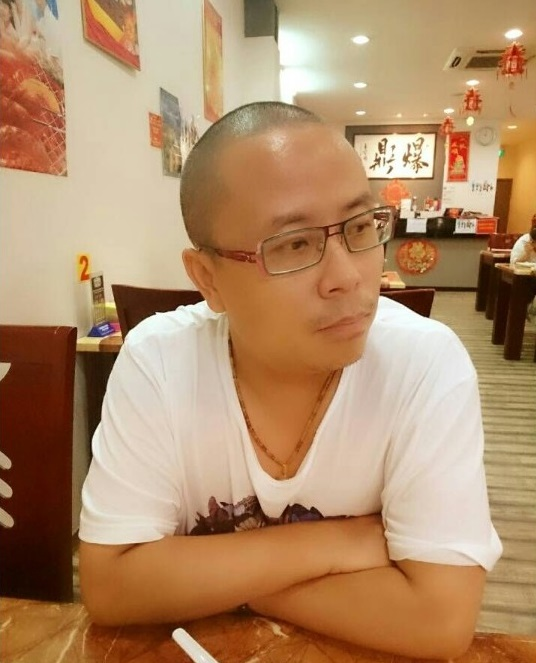
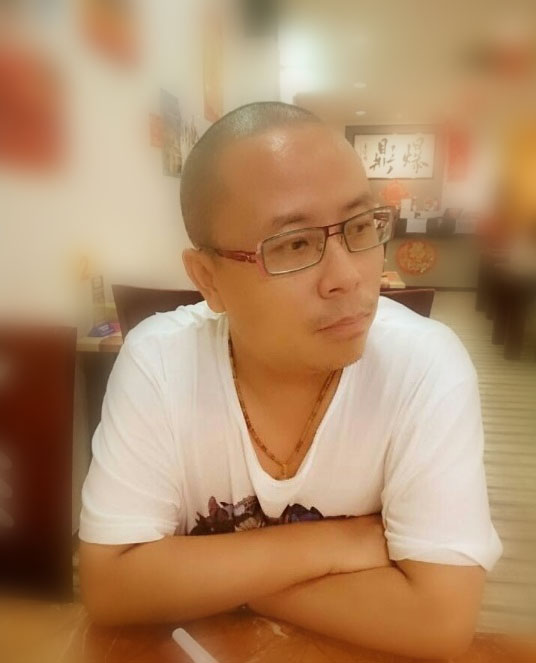
edit team photos

diff --git a/src/components/home/featured.js b/src/components/home/featured.js
@@ -85,7 +85,16 @@ const data = [
     img:
       "https://res.cloudinary.com/gtcmain/image/upload/v1554629714/speakers/Alvin.jpg",
     description:
-      "<p>He is the current Founding President of Institute of Blockchain™ (IBS), a not-for-profit blockchain school focusing on blockchain & cryptocurrency education, certification and research. He is the first WSQ ACTA Master Trainer for Blockchain and has trained more than 1000 participants in blockchain & cryptocurrency at Singapore and Hong Kong. He also oversees IBS's blockchain community of more than 600 individuals across the globe.</p>"
+      "<p>Alvin is the current Founding President of Institute of Blockchain™ (IBS), a not-for-profit blockchain school focusing on blockchain & cryptocurrency education, certification and research. He is the first WSQ ACTA Master Trainer for Blockchain and has trained more than 1000 participants in blockchain & cryptocurrency at Singapore and Hong Kong. He also oversees IBS's blockchain community of more than 600 individuals across the globe.</p>"
+  },
+  {
+    name: "Gustavor Liu",
+    designation: "Co-founder",
+    organisation: "The Hungry Lab",
+    img:
+      "https://res.cloudinary.com/gtcmain/image/upload/v1555858347/speakers/gustavo.jpg",
+    description:
+      "<p>Gustavo is the co-founder of The Hungry Lab and founder of EAT launchpad and a podcast host. He is a private banker with 12 years in wealth management and currently seats on the advisory board of various companies. He speaks 5 languages and has a MBA and degress in Computer Science and Mathematics. He has worked with notable brands like HSBC, UOB and Citibank.</p>"
   },
   {
     name: "Kenneth Hu",
@@ -101,7 +110,7 @@ const data = [
     designation: "Director of Technology",
     organisation: "Institute of Blockchain Singapore (IBS)",
     img:
-      "https://res.cloudinary.com/gtcmain/image/upload/v1554629714/speakers/Laurence-Zhang.jpg",
+      "https://res.cloudinary.com/gtcmain/image/upload/v1555857617/speakers/Laurence-Zhang.jpg",
     description:
       "<p>Laurence is an accomplished software consultant with over 20 years of full-stack software development. Besides that he is also professionally certified for Blockchain for Business under the Linux Foundation, ACTA, and a Google Cloud & Microsoft Azure consultant. Besides actively contributing to Institute of Blockchain, he is also the ambassador of Kleros.</p>"
   },

diff --git a/src/theme/boxes.js b/src/theme/boxes.js
@@ -1,16 +1,21 @@
-import styled from 'styled-components'
-import { media } from './globalStyle'
+import styled from "styled-components";
+import { media } from "./globalStyle";
 
 const Panel = styled.div`
   padding: 40px 20px;
-  @media(min-width: 568px) {
+  @media (min-width: 568px) {
     padding: 80px 40px;
   }
 
   .row {
     margin: 0;
   }
-`
+
+  .phoneMT {
+    margin-top: 80px;
+    ${media.tablet`margin-top: 0px;`}
+  }
+`;
 
 const Box = styled.div`
   padding: 30px 10px;
@@ -24,22 +29,30 @@ const Box = styled.div`
   }
 
   i {
-    color: ${props => props.theme.mute}
+    color: ${props => props.theme.mute};
   }
 
   ul li:not(:last-child) {
     padding-bottom: 20px;
   }
-`
+`;
 
 const GradientBox = styled(Box)`
-  border-image: linear-gradient(to bottom right, ${props => props.theme.gradientStopOne} 0%, ${props => props.theme.gradientStopTwo} 100%);
+  border-image: linear-gradient(
+    to bottom right,
+    ${props => props.theme.gradientStopOne} 0%,
+    ${props => props.theme.gradientStopTwo} 100%
+  );
   border-image-slice: 1;
-`
+`;
 
 const GradientBg = styled.div`
-  background: linear-gradient(to top, ${props => props.theme.body}, rgba(255, 255, 255, 0) )
-`
+  background: linear-gradient(
+    to top,
+    ${props => props.theme.body},
+    rgba(255, 255, 255, 0)
+  );
+`;
 
 const BouncingBox = styled.div`
   height: 30px;
@@ -49,14 +62,14 @@ const BouncingBox = styled.div`
   animation: rotating 1.2s linear ${props => props.delay} infinite;
 
   @keyframes rotating {
-  50% {
-    transform: scale(1) rotate(90deg);
+    50% {
+      transform: scale(1) rotate(90deg);
+    }
+    100% {
+      transform: scale(0.8) rotate(90deg);
+    }
   }
-  100% {
-    transform: scale(0.8) rotate(90deg);
-  }
-}
-`
+`;
 
 const OddShape = styled.div`
   min-height: 115px;
@@ -70,7 +83,7 @@ const OddShape = styled.div`
   ${media.tablet`padding: 20px 40px 10px;`}
 
   &:before {
-    content: '';
+    content: "";
     position: absolute;
     top: -15px;
     left: 0;
@@ -88,7 +101,7 @@ const OddShape = styled.div`
   }
 
   &:after {
-    content: '';
+    content: "";
     position: absolute;
     bottom: -42px;
     left: 0;
@@ -112,6 +125,6 @@ const OddShape = styled.div`
       padding-bottom: 0;
     }
   }
-`
+`;
 
-export { Box, Panel, GradientBox, GradientBg, BouncingBox, OddShape }
+export { Box, Panel, GradientBox, GradientBg, BouncingBox, OddShape };

diff --git a/src/components/home/about.js b/src/components/home/about.js
@@ -12,7 +12,7 @@ const highlights = [
 
 const About = props => (
   <Panel className="bg-white" id="about">
-    <div className="px-4 pb-5">
+    <div className="px-0 px-sm-4 pb-5">
       <h2 className="text-center">About</h2>
       <p className="pb-0 text-center">
         Blockchain is an emerging technology that is increasingly incorporated
@@ -23,22 +23,24 @@ const About = props => (
       </p>
 
       <div className="row align-items-center container__cstm--y">
-        <div className="col-12 col-sm-7 pl-sm-0 order-1 order-sm-0">
-          <h2>Mark your dates</h2>
-          <h3 className="text-body">June</h3>
-          <ul>
-            <li>Preliminary hackathon: Prepare your slide decks</li>
-          </ul>
-          <h3 className="text-body">14-16 June</h3>
-          <ul>
-            <li>Final hackathon: Create your prototype and pitch</li>
-          </ul>
-          <h3 className="text-body">16 June</h3>
-          <ul>
-            <li>Hackathon judging day</li>
-            <li>Panel discussion</li>
-            <li>Career fair</li>
-          </ul>
+        <div className="col-12 col-sm-7 pl-sm-0 order-1 order-sm-0 px-0">
+          <div className="phoneMT">
+            <h2>Mark your dates</h2>
+            <h3 className="text-body">June</h3>
+            <ul>
+              <li>Preliminary hackathon: Prepare your slide decks</li>
+            </ul>
+            <h3 className="text-body">14-16 June</h3>
+            <ul>
+              <li>Final hackathon: Create your prototype and pitch</li>
+            </ul>
+            <h3 className="text-body">16 June</h3>
+            <ul>
+              <li>Hackathon judging day</li>
+              <li>Panel discussion</li>
+              <li>Career fair</li>
+            </ul>
+          </div>
 
           <div className="pt-5 pr-sm-5">
             <GradientBox>

diff --git a/src/pages/team.js b/src/pages/team.js
@@ -57,7 +57,7 @@ const teamData = [
   {
     name: "Laurence Zhang",
     designation: "",
-    img: "/image/upload/v1554629714/speakers/Laurence-Zhang.jpg",
+    img: "/image/upload/v1555857617/speakers/Laurence-Zhang.jpg",
     description:
       "<p>Laurence is an accomplished software consultant with over 20 years of full-stack software development. Besides that he is also professionally certified for Blockchain for Business under the Linux Foundation, ACTA, and a Google Cloud & Microsoft Azure consultant. Besides actively contributing to Institute of Blockchain, he is also the ambassador of Kleros.</p>"
   },
